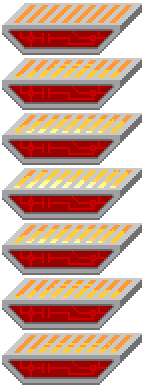
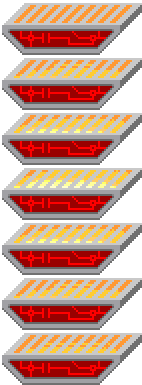
[Build] on/off state for hotplate.

diff --git a/src/game/gameobjects/brickplate.ts b/src/game/gameobjects/brickplate.ts
@@ -2,17 +2,26 @@ import Engine from "engine/engine";
 import GameObject, { GameObjectParams } from "engine/gameobjects/gameobject";
 import { Collider } from "engine/modules/collision";
 import Animat, { AnimationParams } from "./animation";
-import Brick from "./brick";
+import Brick, { BrickParams } from "./brick";
+
+export interface BrickPlateParams extends BrickParams {
+    isOn: boolean;
+}
+
 
 export default class BrickPlate extends Brick {
 
-    constructor(engine: Engine, params: GameObjectParams) {
+    private isOn : boolean;
+    private animation: Animat;
+
+    constructor(engine: Engine, params: BrickPlateParams) {
         super(engine, {...params, ...{ width : 4 }});
 
+        this.isOn = params.isOn;
         this.image = this.engine.library.getImage("brick_plate");
 
         //this.parent.pushGO(
-        this.parent.pushGO(new Animat(this.engine, {
+        this.animation = this.parent.pushGO(new Animat(this.engine, {
             ...params,
             subPosition : { x : 0, y : -25 },                       //For some reason, this animation appears super low by default.
             zModifier : 40,                                         //Z-index modifier of a 4-width brick
@@ -21,24 +30,28 @@ export default class BrickPlate extends Brick {
             framesSize : 55,
             frameCount : 7,
             isVert : true                                           //Hotplate animation frames are stacked vertically
-        } as AnimationParams));
+        } as AnimationParams)) as Animat;
+
+        this.animation.isActive == this.isOn;
     }
     
     //draw nothing
-    public draw() {
-        
+    public draw(ctx : CanvasRenderingContext2D) {
+        if(!this.isOn) {
+            super.draw(ctx);
+        }
     }
 
     //Get hazard and passive colliders of this brick.
     public getColliders() : Collider[] {
         return [{ 
-            mask : 0b100,   //Hazard
-            min : this.gpos.getAdd({ x : 1,              y : -1}),
-            max : this.gpos.getAdd({ x : this.width - 1, y :  0}) 
-        },{ 
-            mask : 0,       //Passive
+            mask : 0,               //Passive
             min : this.gpos.getAdd({ x : 0,              y : -1}),
             max : this.gpos.getAdd({ x : this.width,     y :  2}) 
-        }];
+        }].concat(this.isOn ? [{    //Only return hazard hitbox if this plate is on.
+            mask : 0b100,           //Hazard
+            min : this.gpos.getAdd({ x : 1,              y : -1}),
+            max : this.gpos.getAdd({ x : this.width - 1, y :  0}) 
+        }] : []);
     }
 }

diff --git a/src/game/gameobjects/character.ts b/src/game/gameobjects/character.ts
@@ -43,20 +43,16 @@ export default class Character extends GameObject {
 
         //Spawn 3 animations, the sprite is sliced vertically into 2x wide segments for proper z-indexing
         for(let i = -1; i <= 1; i ++) {
-
-            //Generate segment
-            const segment = new Animat(this.engine, {
-                ...params, 
-                isLoop : false,                 //Remove looping to prevent stuttering. Loops are handled manually
-                zModifier : i < 1 ? 300 : 29,   //Z-modifier for different slices
-                sliceIndex : i,                 //This animation is sliced
-                framesSize : GMULTX * 2,        //2x wide slices
-                gposOffset : { x : -1, y : 0 }  //Move back by 1. Animations are centered around this character
-            } as AnimationParams);
             
             // Add segment to scene and this character
-            this.spriteGroupCurr.push(segment);
-            this.parent.pushGO(segment);
+            this.spriteGroupCurr.push(this.parent.pushGO(new Animat(this.engine, {
+                    ...params, 
+                    isLoop : false,                 //Remove looping to prevent stuttering. Loops are handled manually
+                    zModifier : i < 1 ? 300 : 29,   //Z-modifier for different slices
+                    sliceIndex : i,                 //This animation is sliced
+                    framesSize : GMULTX * 2,        //2x wide slices
+                    gposOffset : { x : -1, y : 0 }  //Move back by 1. Animations are centered around this character
+                } as AnimationParams)) as Animat);
         }
     }
 

diff --git a/build/game/gameobjects/brickplate.js b/build/game/gameobjects/brickplate.js
@@ -3,8 +3,9 @@ import Brick from "./brick.js";
 export default class BrickPlate extends Brick {
   constructor(engine2, params) {
     super(engine2, {...params, ...{width: 4}});
+    this.isOn = params.isOn;
     this.image = this.engine.library.getImage("brick_plate");
-    this.parent.pushGO(new Animat(this.engine, {
+    this.animation = this.parent.pushGO(new Animat(this.engine, {
       ...params,
       subPosition: {x: 0, y: -25},
       zModifier: 40,
@@ -14,19 +15,23 @@ export default class BrickPlate extends Brick {
       frameCount: 7,
       isVert: true
     }));
+    this.animation.isActive == this.isOn;
   }
-  draw() {
+  draw(ctx) {
+    if (!this.isOn) {
+      super.draw(ctx);
+    }
   }
   getColliders() {
     return [{
-      mask: 4,
-      min: this.gpos.getAdd({x: 1, y: -1}),
-      max: this.gpos.getAdd({x: this.width - 1, y: 0})
-    }, {
       mask: 0,
       min: this.gpos.getAdd({x: 0, y: -1}),
       max: this.gpos.getAdd({x: this.width, y: 2})
-    }];
+    }].concat(this.isOn ? [{
+      mask: 4,
+      min: this.gpos.getAdd({x: 1, y: -1}),
+      max: this.gpos.getAdd({x: this.width - 1, y: 0})
+    }] : []);
   }
 }
 //# sourceMappingURL=brickplate.js.map

diff --git a/build/game/gameobjects/character.js b/build/game/gameobjects/character.js
@@ -14,16 +14,14 @@ export default class Character extends GameObject {
     this._height = params.height ?? 2;
     this.checkCollision = true;
     for (let i = -1; i <= 1; i++) {
-      const segment = new Animat(this.engine, {
+      this.spriteGroupCurr.push(this.parent.pushGO(new Animat(this.engine, {
         ...params,
         isLoop: false,
         zModifier: i < 1 ? 300 : 29,
         sliceIndex: i,
         framesSize: GMULTX * 2,
         gposOffset: {x: -1, y: 0}
-      });
-      this.spriteGroupCurr.push(segment);
-      this.parent.pushGO(segment);
+      })));
     }
   }
   get height() {

diff --git a/build/game/load.js b/build/game/load.js
@@ -19,7 +19,7 @@ window.onload = function() {
   const canvas = document.querySelector("canvas");
   if (!canvas)
     throw new Error("Can't get canvas");
-  new Engine(canvas, "assets/scenes/", "scenes", ["LevelInterface", "LEVEL_44"], [
+  new Engine(canvas, "assets/scenes/", "scenes", ["LevelInterface", "LEVEL_05"], [
     BrickHandler,
     BrickPlate,
     BrickNormal,

diff --git a/src/engine/scene/scene.ts b/src/engine/scene/scene.ts
@@ -53,10 +53,11 @@ export default class Scene {
         }
     }
 
-    public pushGO(gameObject: GameObject) {
+    public pushGO(gameObject: GameObject) : GameObject {
         // Establish parent scene before pushing
         gameObject.parent = this;
         this.gameObjects.push(gameObject);
+        return gameObject;
     }
 
     public sortGO() {

diff --git a/src/game/load.ts b/src/game/load.ts
@@ -25,7 +25,7 @@ window.onload = function() {
         canvas, 
         "assets/scenes/",
         "scenes",
-        ["LevelInterface", "LEVEL_44"],
+        ["LevelInterface", "LEVEL_05"],
         [
             BrickHandler,
             BrickPlate,

diff --git a/build/engine/scene/scene.js b/build/engine/scene/scene.js
@@ -26,6 +26,7 @@ export default class Scene {
   pushGO(gameObject) {
     gameObject.parent = this;
     this.gameObjects.push(gameObject);
+    return gameObject;
   }
   sortGO() {
     this.gameObjects.sort((a, b) => a.zIndex - b.zIndex);
